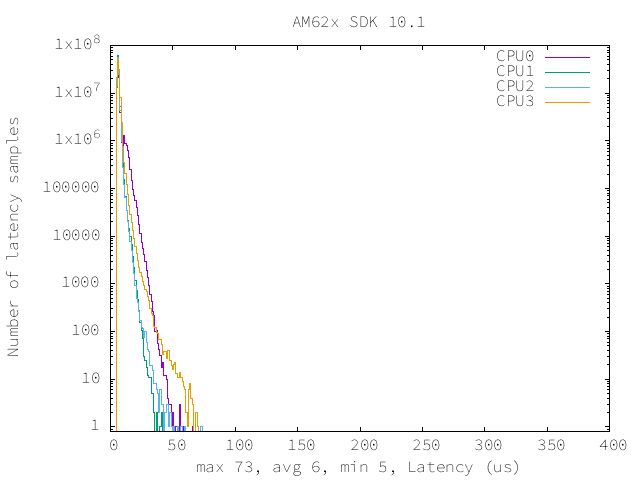
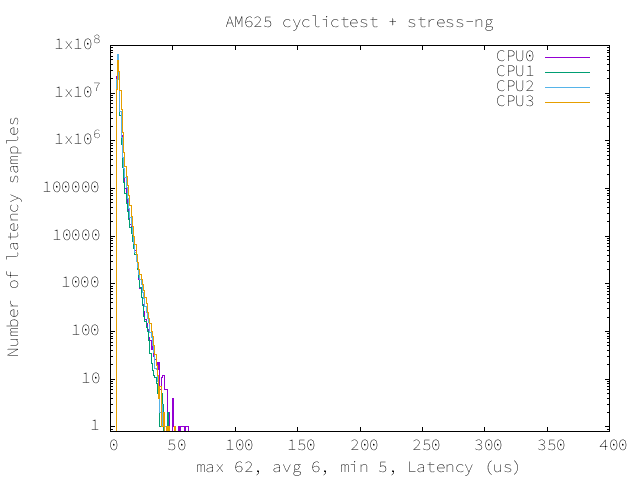
perf(linux): AM62X: Update PREEMPT_RT perf numbers for 11.1
Update the real-time Linux latency numbers for SDK 11.1

Changed region(s): [[0.1875, 0.2812, 0.3125, 0.9062], [0.3438, 0.0312, 0.7812, 0.0625], [0.375, 0.9688, 0.4062, 1.0]]

diff --git a/source/devices/AM62X/linux/RT_Linux_Performance_Guide.rst b/source/devices/AM62X/linux/RT_Linux_Performance_Guide.rst
@@ -61,13 +61,22 @@ Test commands used for running stress-ng and cyclictest together
    stress-ng --cpu-method=all -c 4 &
    cyclictest -m -Sp80 -D6h -h400 -i200 -M -q
 
-The latencies observed with this SDK are summarized below:
+The latencies observed with the default yocto SDK image on
+https://www.ti.com/tool/SK-AM62B-P1 are summarized below:
+
+.. note::
+
+   A known issue in this SDK release is affecting this benchmark.
+   Applying `this patch`_ on Yocto's meta-ti layer will restore the
+   context switch latencies to the values you see below.
 
 .. csv-table::
    :header: "Latencies","CPU 0","CPU 1","CPU 2","CPU 3"
 
-   "Minimum (usec)","5","5","4","4"
-   "Average (usec)","7","5","6","6"
-   "Maximum (usec)","66","41","73","70"
+   "Minimum (usec)","5","5","5","5"
+   "Average (usec)","6","6","6","6"
+   "Maximum (usec)","62","46","47","52"
 
 .. image:: img/rt-cpu-method-all-latency-histogram.png
+
+.. _this patch: https://lists.yoctoproject.org/g/meta-ti/message/19089
